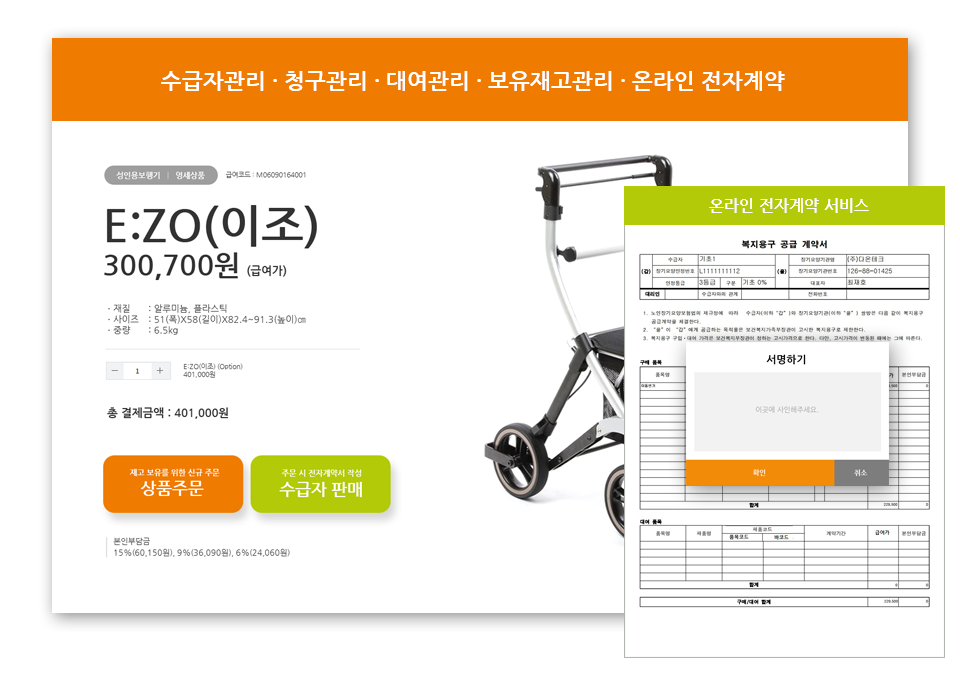
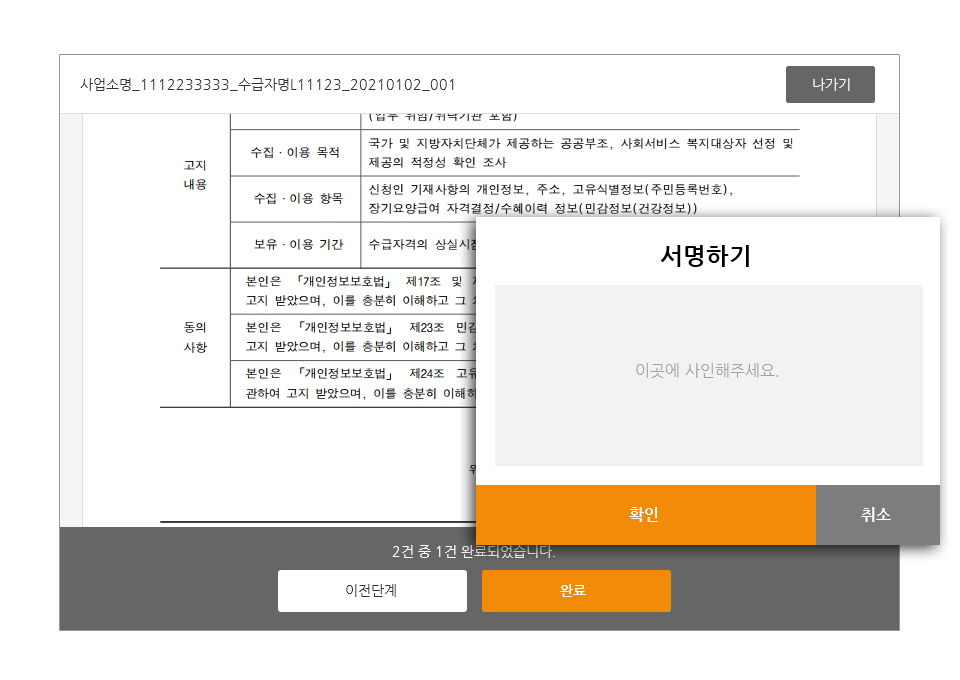
메인 슬라이드 이미지 변경

diff --git a/www/thema/eroumcare/main/e-mall-index.php b/www/thema/eroumcare/main/e-mall-index.php
@@ -42,7 +42,7 @@
 .main_top_wrap .slick-next:before {
   display: inline-block;
   font: normal normal normal 14px/1 FontAwesome;
-  font-size: 40px;
+  font-size: 80px;
   line-height: 1;
   text-rendering: auto;
   -webkit-font-smoothing: antialiased;
@@ -87,28 +87,28 @@
         <div class="desc">복지용구 사업소 업무를 쉽고 간편하게</div>
         <h2>편리한 온라인 전자계약</h2>
       </div>
-      <img src="<?=G5_URL?>/thema/eroumcare/assets/img/main_service_info_01.png" alt="복지용구 통합관리 시스템">
+      <img src="<?=G5_URL?>/thema/eroumcare/assets/img/main_service_info_01.png"  >
     </div>
     <div class="main_slide">
       <div class="main_slide_head">
         <div class="desc">실시간 수급자 별 청구금액 확인</div>
         <h2>월별 청구관리 및 간편검증</h2>
       </div>
-      <img src="<?=G5_URL?>/thema/eroumcare/assets/img/main_service_info_01.png" alt="복지용구 통합관리 시스템">
+      <img src="<?=G5_URL?>/thema/eroumcare/assets/img/main_service_info_02.png" >
     </div>
     <div class="main_slide">
       <div class="main_slide_head">
         <div class="desc">쉽고 간편한 수급자 통합관리 시스템</div>
         <h2>간편관리 및 신규 수급자 추천</h2>
       </div>
-      <img src="<?=G5_URL?>/thema/eroumcare/assets/img/main_service_info_01.png" alt="복지용구 통합관리 시스템">
+      <img src="<?=G5_URL?>/thema/eroumcare/assets/img/main_service_info_03.png"  >
     </div>
     <div class="main_slide">
       <div class="main_slide_head">
         <div class="desc">현재 보유한 재고를 일괄업로드 후 관리</div>
         <h2>판매/대여(소독관리) 간편 관리</h2>
       </div>
-      <img src="<?=G5_URL?>/thema/eroumcare/assets/img/main_service_info_01.png" alt="복지용구 통합관리 시스템">
+      <img src="<?=G5_URL?>/thema/eroumcare/assets/img/main_service_info_04.png" >
     </div>
   </div>
 </div>
